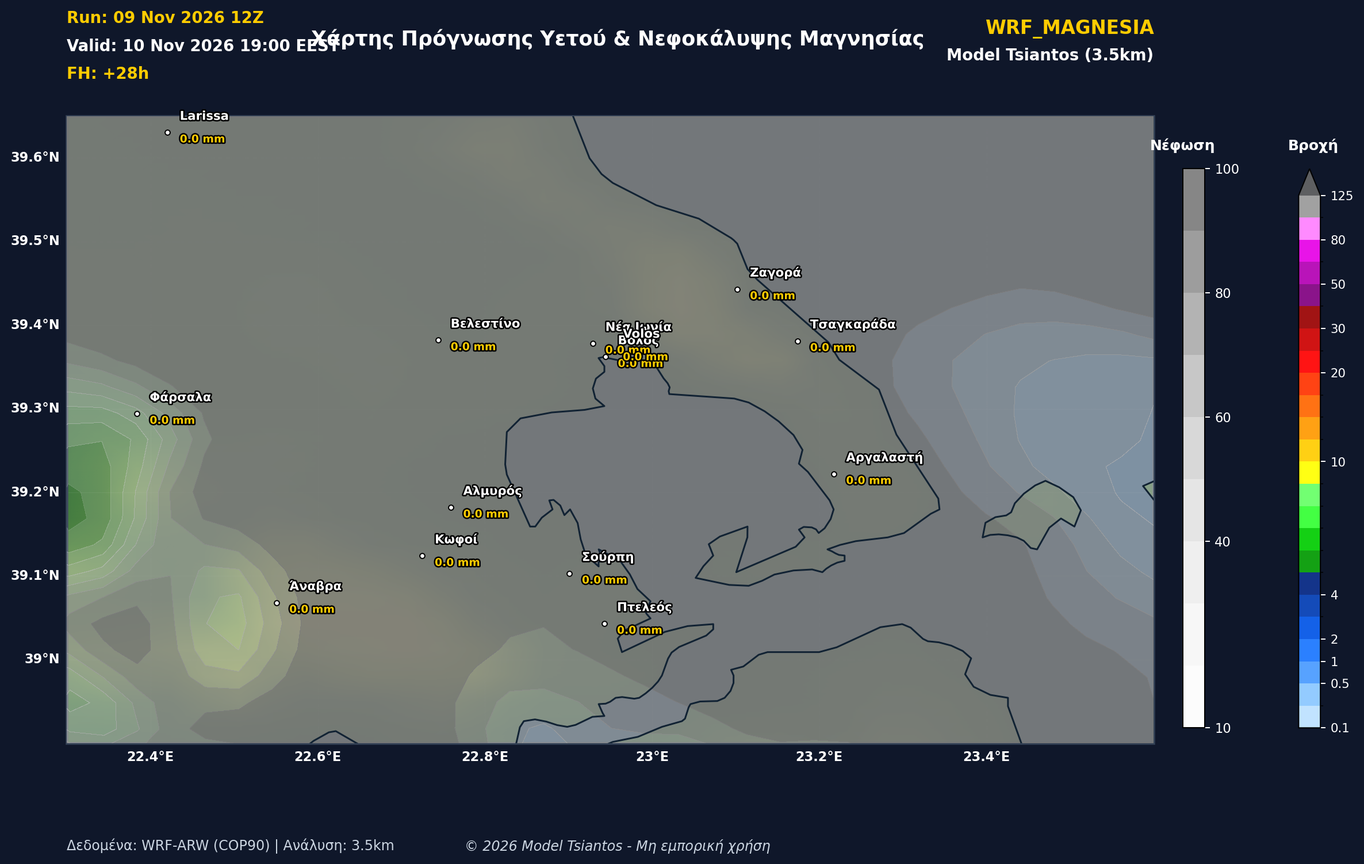
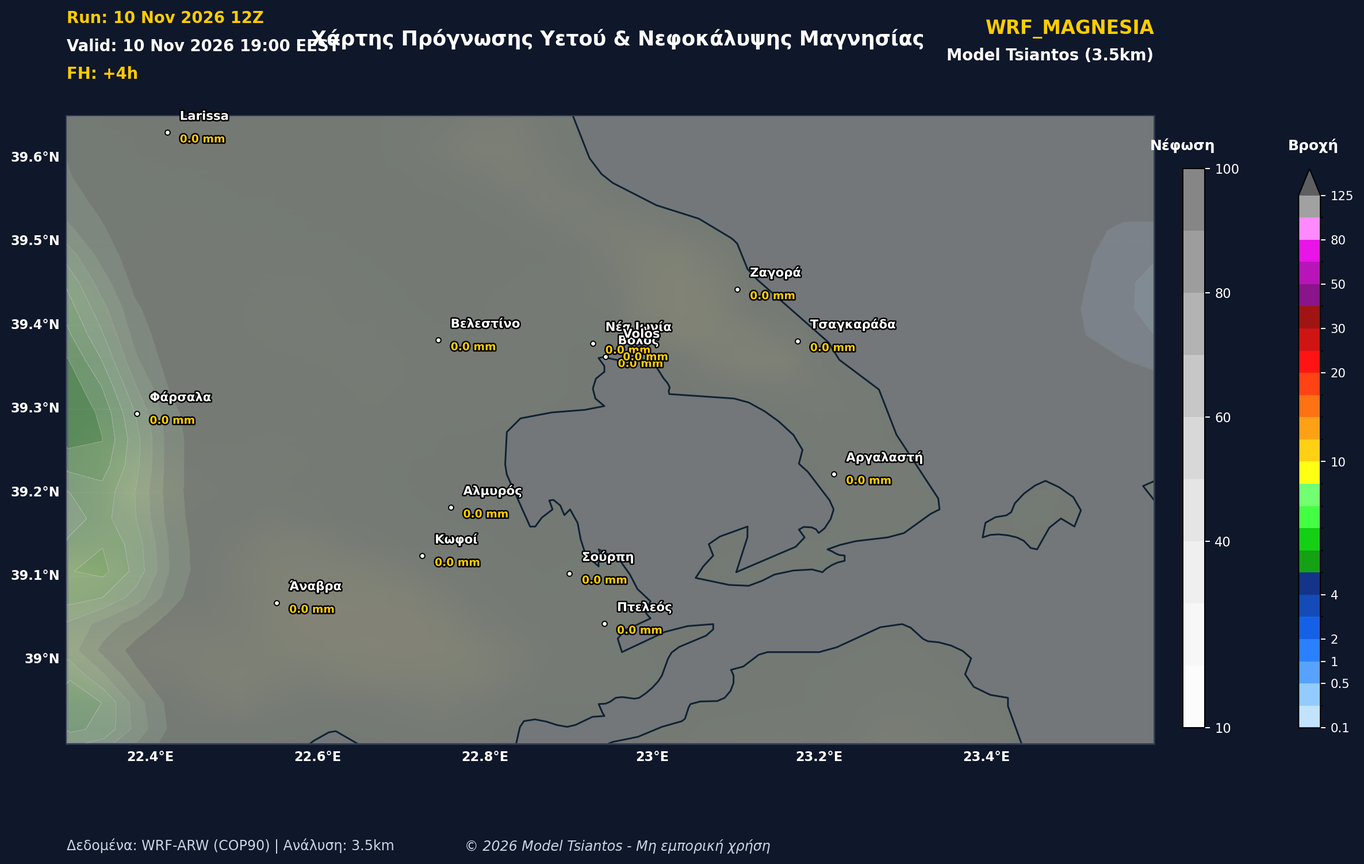
Update all WRF forecast maps

diff --git a/index.html b/index.html
@@ -485,7 +485,7 @@ const tabs=Array.from(document.querySelectorAll(".tab"));
 const title=document.getElementById("mapTitle"),validTime=document.getElementById("validTime"),slider=document.getElementById("hourSlider"),prev=document.getElementById("prevBtn"),next=document.getElementById("nextBtn"),placeholder=document.getElementById("mapPlaceholder"),image=document.getElementById("mapImage"),caption=document.getElementById("mapCaption"),statusText=document.getElementById("statusText");
 // Στο επόμενο βήμα θα βάλουμε εδώ τις δημόσιες διευθύνσεις των πραγματικών εικόνων WRF.
 // Παράδειγμα: rain:[{hour:0,url:"maps/rain_fh00.png",label:"..."}]
-const maps={"temp":[{"hour":17,"url":"maps/temp/Temp2m_LandRelief_FH17h.png","label":"+17 ώρες","valid":"Πρόγνωση +17 h","caption":"WRF MAGNESIA — +17 ώρες"},{"hour":18,"url":"maps/temp/Temp2m_LandRelief_FH18h.png","label":"+18 ώρες","valid":"Πρόγνωση +18 h","caption":"WRF MAGNESIA — +18 ώρες"},{"hour":19,"url":"maps/temp/Temp2m_LandRelief_FH19h.png","label":"+19 ώρες","valid":"Πρόγνωση +19 h","caption":"WRF MAGNESIA — +19 ώρες"},{"hour":20,"url":"maps/temp/Temp2m_LandRelief_FH20h.png","label":"+20 ώρες","valid":"Πρόγνωση +20 h","caption":"WRF MAGNESIA — +20 ώρες"},{"hour":21,"url":"maps/temp/Temp2m_LandRelief_FH21h.png","label":"+21 ώρες","valid":"Πρόγνωση +21 h","caption":"WRF MAGNESIA — +21 ώρες"},{"hour":22,"url":"maps/temp/Temp2m_LandRelief_FH22h.png","label":"+22 ώρες","valid":"Πρόγνωση +22 h","caption":"WRF MAGNESIA — +22 ώρες"},{"hour":23,"url":"maps/temp/Temp2m_LandRelief_FH23h.png","label":"+23 ώρες","valid":"Πρόγνωση +23 h","caption":"WRF MAGNESIA — +23 ώρες"},{"hour":24,"url":"maps/temp/Temp2m_LandRelief_FH24h.png","label":"+24 ώρες","valid":"Πρόγνωση +24 h","caption":"WRF MAGNESIA — +24 ώρες"},{"hour":25,"url":"maps/temp/Temp2m_LandRelief_FH25h.png","label":"+25 ώρες","valid":"Πρόγνωση +25 h","caption":"WRF MAGNESIA — +25 ώρες"},{"hour":26,"url":"maps/temp/Temp2m_LandRelief_FH26h.png","label":"+26 ώρες","valid":"Πρόγνωση +26 h","caption":"WRF MAGNESIA — +26 ώρες"},{"hour":27,"url":"maps/temp/Temp2m_LandRelief_FH27h.png","label":"+27 ώρες","valid":"Πρόγνωση +27 h","caption":"WRF MAGNESIA — +27 ώρες"},{"hour":28,"url":"maps/temp/Temp2m_LandRelief_FH28h.png","label":"+28 ώρες","valid":"Πρόγνωση +28 h","caption":"WRF MAGNESIA — +28 ώρες"},{"hour":29,"url":"maps/temp/Temp2m_LandRelief_FH29h.png","label":"+29 ώρες","valid":"Πρόγνωση +29 h","caption":"WRF MAGNESIA — +29 ώρες"},{"hour":30,"url":"maps/temp/Temp2m_LandRelief_FH30h.png","label":"+30 ώρες","valid":"Πρόγνωση +30 h","caption":"WRF MAGNESIA — +30 ώρες"},{"hour":31,"url":"maps/temp/Temp2m_LandRelief_FH31h.png","label":"+31 ώρες","valid":"Πρόγνωση +31 h","caption":"WRF MAGNESIA — +31 ώρες"},{"hour":32,"url":"maps/temp/Temp2m_LandRelief_FH32h.png","label":"+32 ώρες","valid":"Πρόγνωση +32 h","caption":"WRF MAGNESIA — +32 ώρες"},{"hour":33,"url":"maps/temp/Temp2m_LandRelief_FH33h.png","label":"+33 ώρες","valid":"Πρόγνωση +33 h","caption":"WRF MAGNESIA — +33 ώρες"},{"hour":34,"url":"maps/temp/Temp2m_LandRelief_FH34h.png","label":"+34 ώρες","valid":"Πρόγνωση +34 h","caption":"WRF MAGNESIA — +34 ώρες"},{"hour":35,"url":"maps/temp/Temp2m_LandRelief_FH35h.png","label":"+35 ώρες","valid":"Πρόγνωση +35 h","caption":"WRF MAGNESIA — +35 ώρες"},{"hour":36,"url":"maps/temp/Temp2m_LandRelief_FH36h.png","label":"+36 ώρες","valid":"Πρόγνωση +36 h","caption":"WRF MAGNESIA — +36 ώρες"},{"hour":37,"url":"maps/temp/Temp2m_LandRelief_FH37h.png","label":"+37 ώρες","valid":"Πρόγνωση +37 h","caption":"WRF MAGNESIA — +37 ώρες"},{"hour":38,"url":"maps/temp/Temp2m_LandRelief_FH38h.png","label":"+38 ώρες","valid":"Πρόγνωση +38 h","caption":"WRF MAGNESIA — +38 ώρες"},{"hour":39,"url":"maps/temp/Temp2m_LandRelief_FH39h.png","label":"+39 ώρες","valid":"Πρόγνωση +39 h","caption":"WRF MAGNESIA — +39 ώρες"},{"hour":40,"url":"maps/temp/Temp2m_LandRelief_FH40h.png","label":"+40 ώρες","valid":"Πρόγνωση +40 h","caption":"WRF MAGNESIA — +40 ώρες"},{"hour":41,"url":"maps/temp/Temp2m_LandRelief_FH41h.png","label":"+41 ώρες","valid":"Πρόγνωση +41 h","caption":"WRF MAGNESIA — +41 ώρες"},{"hour":42,"url":"maps/temp/Temp2m_LandRelief_FH42h.png","label":"+42 ώρες","valid":"Πρόγνωση +42 h","caption":"WRF MAGNESIA — +42 ώρες"},{"hour":43,"url":"maps/temp/Temp2m_LandRelief_FH43h.png","label":"+43 ώρες","valid":"Πρόγνωση +43 h","caption":"WRF MAGNESIA — +43 ώρες"}],"wind":[{"hour":18,"url":"maps/wind/WindGust_Meteologix_FH18h.png","label":"+18 ώρες","valid":"Πρόγνωση +18 h","caption":"WRF MAGNESIA — +18 ώρες"},{"hour":19,"url":"maps/wind/WindGust_Meteologix_FH19h.png","label":"+19 ώρες","valid":"Πρόγνωση +19 h","caption":"WRF MAGNESIA — +19 ώρες"},{"hour":20,"url":"maps/wind/WindGust_Meteologix_FH20h.png","label":"+20 ώρες","valid":"Πρόγνωση +20 h","caption":"WRF MAGNESIA — +20 ώρες"},{"hour":21,"url":"maps/wind/WindGust_Meteologix_FH21h.png","label":"+21 ώρες","valid":"Πρόγνωση +21 h","caption":"WRF MAGNESIA — +21 ώρες"},{"hour":22,"url":"maps/wind/WindGust_Meteologix_FH22h.png","label":"+22 ώρες","valid":"Πρόγνωση +22 h","caption":"WRF MAGNESIA — +22 ώρες"},{"hour":23,"url":"maps/wind/WindGust_Meteologix_FH23h.png","label":"+23 ώρες","valid":"Πρόγνωση +23 h","caption":"WRF MAGNESIA — +23 ώρες"},{"hour":24,"url":"maps/wind/WindGust_Meteologix_FH24h.png","label":"+24 ώρες","valid":"Πρόγνωση +24 h","caption":"WRF MAGNESIA — +24 ώρες"},{"hour":25,"url":"maps/wind/WindGust_Meteologix_FH25h.png","label":"+25 ώρες","valid":"Πρόγνωση +25 h","caption":"WRF MAGNESIA — +25 ώρες"},{"hour":26,"url":"maps/wind/WindGust_Meteologix_FH26h.png","label":"+26 ώρες","valid":"Πρόγνωση +26 h","caption":"WRF MAGNESIA — +26 ώρες"},{"hour":27,"url":"maps/wind/WindGust_Meteologix_FH27h.png","label":"+27 ώρες","valid":"Πρόγνωση +27 h","caption":"WRF MAGNESIA — +27 ώρες"},{"hour":28,"url":"maps/wind/WindGust_Meteologix_FH28h.png","label":"+28 ώρες","valid":"Πρόγνωση +28 h","caption":"WRF MAGNESIA — +28 ώρες"},{"hour":29,"url":"maps/wind/WindGust_Meteologix_FH29h.png","label":"+29 ώρες","valid":"Πρόγνωση +29 h","caption":"WRF MAGNESIA — +29 ώρες"},{"hour":30,"url":"maps/wind/WindGust_Meteologix_FH30h.png","label":"+30 ώρες","valid":"Πρόγνωση +30 h","caption":"WRF MAGNESIA — +30 ώρες"},{"hour":31,"url":"maps/wind/WindGust_Meteologix_FH31h.png","label":"+31 ώρες","valid":"Πρόγνωση +31 h","caption":"WRF MAGNESIA — +31 ώρες"},{"hour":32,"url":"maps/wind/WindGust_Meteologix_FH32h.png","label":"+32 ώρες","valid":"Πρόγνωση +32 h","caption":"WRF MAGNESIA — +32 ώρες"},{"hour":33,"url":"maps/wind/WindGust_Meteologix_FH33h.png","label":"+33 ώρες","valid":"Πρόγνωση +33 h","caption":"WRF MAGNESIA — +33 ώρες"},{"hour":34,"url":"maps/wind/WindGust_Meteologix_FH34h.png","label":"+34 ώρες","valid":"Πρόγνωση +34 h","caption":"WRF MAGNESIA — +34 ώρες"},{"hour":35,"url":"maps/wind/WindGust_Meteologix_FH35h.png","label":"+35 ώρες","valid":"Πρόγνωση +35 h","caption":"WRF MAGNESIA — +35 ώρες"},{"hour":36,"url":"maps/wind/WindGust_Meteologix_FH36h.png","label":"+36 ώρες","valid":"Πρόγνωση +36 h","caption":"WRF MAGNESIA — +36 ώρες"},{"hour":37,"url":"maps/wind/WindGust_Meteologix_FH37h.png","label":"+37 ώρες","valid":"Πρόγνωση +37 h","caption":"WRF MAGNESIA — +37 ώρες"},{"hour":38,"url":"maps/wind/WindGust_Meteologix_FH38h.png","label":"+38 ώρες","valid":"Πρόγνωση +38 h","caption":"WRF MAGNESIA — +38 ώρες"},{"hour":39,"url":"maps/wind/WindGust_Meteologix_FH39h.png","label":"+39 ώρες","valid":"Πρόγνωση +39 h","caption":"WRF MAGNESIA — +39 ώρες"},{"hour":40,"url":"maps/wind/WindGust_Meteologix_FH40h.png","label":"+40 ώρες","valid":"Πρόγνωση +40 h","caption":"WRF MAGNESIA — +40 ώρες"},{"hour":41,"url":"maps/wind/WindGust_Meteologix_FH41h.png","label":"+41 ώρες","valid":"Πρόγνωση +41 h","caption":"WRF MAGNESIA — +41 ώρες"},{"hour":42,"url":"maps/wind/WindGust_Meteologix_FH42h.png","label":"+42 ώρες","valid":"Πρόγνωση +42 h","caption":"WRF MAGNESIA — +42 ώρες"},{"hour":43,"url":"maps/wind/WindGust_Meteologix_FH43h.png","label":"+43 ώρες","valid":"Πρόγνωση +43 h","caption":"WRF MAGNESIA — +43 ώρες"}],"cloud":[{"hour":0,"url":"maps/cloud/Magnesia_Meteologix_2026-11-10_05-00-00.png","label":"2026-11-10 05:00","valid":"2026-11-10 05:00","caption":"WRF MAGNESIA — 2026-11-10 05:00"},{"hour":1,"url":"maps/cloud/Magnesia_Meteologix_2026-11-10_06-00-00.png","label":"2026-11-10 06:00","valid":"2026-11-10 06:00","caption":"WRF MAGNESIA — 2026-11-10 06:00"},{"hour":2,"url":"maps/cloud/Magnesia_Meteologix_2026-11-10_07-00-00.png","label":"2026-11-10 07:00","valid":"2026-11-10 07:00","caption":"WRF MAGNESIA — 2026-11-10 07:00"},{"hour":3,"url":"maps/cloud/Magnesia_Meteologix_2026-11-10_08-00-00.png","label":"2026-11-10 08:00","valid":"2026-11-10 08:00","caption":"WRF MAGNESIA — 2026-11-10 08:00"},{"hour":4,"url":"maps/cloud/Magnesia_Meteologix_2026-11-10_09-00-00.png","label":"2026-11-10 09:00","valid":"2026-11-10 09:00","caption":"WRF MAGNESIA — 2026-11-10 09:00"},{"hour":5,"url":"maps/cloud/Magnesia_Meteologix_2026-11-10_10-00-00.png","label":"2026-11-10 10:00","valid":"2026-11-10 10:00","caption":"WRF MAGNESIA — 2026-11-10 10:00"},{"hour":6,"url":"maps/cloud/Magnesia_Meteologix_2026-11-10_11-00-00.png","label":"2026-11-10 11:00","valid":"2026-11-10 11:00","caption":"WRF MAGNESIA — 2026-11-10 11:00"},{"hour":7,"url":"maps/cloud/Magnesia_Meteologix_2026-11-10_12-00-00.png","label":"2026-11-10 12:00","valid":"2026-11-10 12:00","caption":"WRF MAGNESIA — 2026-11-10 12:00"},{"hour":8,"url":"maps/cloud/Magnesia_Meteologix_2026-11-10_13-00-00.png","label":"2026-11-10 13:00","valid":"2026-11-10 13:00","caption":"WRF MAGNESIA — 2026-11-10 13:00"},{"hour":9,"url":"maps/cloud/Magnesia_Meteologix_2026-11-10_14-00-00.png","label":"2026-11-10 14:00","valid":"2026-11-10 14:00","caption":"WRF MAGNESIA — 2026-11-10 14:00"},{"hour":10,"url":"maps/cloud/Magnesia_Meteologix_2026-11-10_15-00-00.png","label":"2026-11-10 15:00","valid":"2026-11-10 15:00","caption":"WRF MAGNESIA — 2026-11-10 15:00"},{"hour":11,"url":"maps/cloud/Magnesia_Meteologix_2026-11-10_16-00-00.png","label":"2026-11-10 16:00","valid":"2026-11-10 16:00","caption":"WRF MAGNESIA — 2026-11-10 16:00"},{"hour":12,"url":"maps/cloud/Magnesia_Meteologix_2026-11-10_17-00-00.png","label":"2026-11-10 17:00","valid":"2026-11-10 17:00","caption":"WRF MAGNESIA — 2026-11-10 17:00"},{"hour":13,"url":"maps/cloud/Magnesia_Meteologix_2026-11-10_18-00-00.png","label":"2026-11-10 18:00","valid":"2026-11-10 18:00","caption":"WRF MAGNESIA — 2026-11-10 18:00"},{"hour":14,"url":"maps/cloud/Magnesia_Meteologix_2026-11-10_19-00-00.png","label":"2026-11-10 19:00","valid":"2026-11-10 19:00","caption":"WRF MAGNESIA — 2026-11-10 19:00"},{"hour":15,"url":"maps/cloud/Magnesia_Meteologix_2026-11-10_20-00-00.png","label":"2026-11-10 20:00","valid":"2026-11-10 20:00","caption":"WRF MAGNESIA — 2026-11-10 20:00"},{"hour":16,"url":"maps/cloud/Magnesia_Meteologix_2026-11-10_21-00-00.png","label":"2026-11-10 21:00","valid":"2026-11-10 21:00","caption":"WRF MAGNESIA — 2026-11-10 21:00"},{"hour":17,"url":"maps/cloud/Magnesia_Meteologix_2026-11-10_22-00-00.png","label":"2026-11-10 22:00","valid":"2026-11-10 22:00","caption":"WRF MAGNESIA — 2026-11-10 22:00"},{"hour":18,"url":"maps/cloud/Magnesia_Meteologix_2026-11-10_23-00-00.png","label":"2026-11-10 23:00","valid":"2026-11-10 23:00","caption":"WRF MAGNESIA — 2026-11-10 23:00"},{"hour":19,"url":"maps/cloud/Magnesia_Meteologix_2026-11-11_00-00-00.png","label":"2026-11-11 00:00","valid":"2026-11-11 00:00","caption":"WRF MAGNESIA — 2026-11-11 00:00"},{"hour":20,"url":"maps/cloud/Magnesia_Meteologix_2026-11-11_01-00-00.png","label":"2026-11-11 01:00","valid":"2026-11-11 01:00","caption":"WRF MAGNESIA — 2026-11-11 01:00"},{"hour":21,"url":"maps/cloud/Magnesia_Meteologix_2026-11-11_02-00-00.png","label":"2026-11-11 02:00","valid":"2026-11-11 02:00","caption":"WRF MAGNESIA — 2026-11-11 02:00"},{"hour":22,"url":"maps/cloud/Magnesia_Meteologix_2026-11-11_03-00-00.png","label":"2026-11-11 03:00","valid":"2026-11-11 03:00","caption":"WRF MAGNESIA — 2026-11-11 03:00"},{"hour":23,"url":"maps/cloud/Magnesia_Meteologix_2026-11-11_04-00-00.png","label":"2026-11-11 04:00","valid":"2026-11-11 04:00","caption":"WRF MAGNESIA — 2026-11-11 04:00"},{"hour":24,"url":"maps/cloud/Magnesia_Meteologix_2026-11-11_05-00-00.png","label":"2026-11-11 05:00","valid":"2026-11-11 05:00","caption":"WRF MAGNESIA — 2026-11-11 05:00"},{"hour":25,"url":"maps/cloud/Magnesia_Meteologix_2026-11-11_06-00-00.png","label":"2026-11-11 06:00","valid":"2026-11-11 06:00","caption":"WRF MAGNESIA — 2026-11-11 06:00"},{"hour":26,"url":"maps/cloud/Magnesia_Meteologix_2026-11-11_07-00-00.png","label":"2026-11-11 07:00","valid":"2026-11-11 07:00","caption":"WRF MAGNESIA — 2026-11-11 07:00"}],"rain":[],"snow":[{"hour":0,"url":"maps/snow/Magnesia_SNOWH_202611100500.png","label":"Magnesia_SNOWH_202611100500","valid":"Magnesia_SNOWH_202611100500","caption":"WRF MAGNESIA — Magnesia_SNOWH_202611100500"},{"hour":1,"url":"maps/snow/Magnesia_SNOWH_202611100600.png","label":"Magnesia_SNOWH_202611100600","valid":"Magnesia_SNOWH_202611100600","caption":"WRF MAGNESIA — Magnesia_SNOWH_202611100600"},{"hour":2,"url":"maps/snow/Magnesia_SNOWH_202611100700.png","label":"Magnesia_SNOWH_202611100700","valid":"Magnesia_SNOWH_202611100700","caption":"WRF MAGNESIA — Magnesia_SNOWH_202611100700"},{"hour":3,"url":"maps/snow/Magnesia_SNOWH_202611100800.png","label":"Magnesia_SNOWH_202611100800","valid":"Magnesia_SNOWH_202611100800","caption":"WRF MAGNESIA — Magnesia_SNOWH_202611100800"},{"hour":4,"url":"maps/snow/Magnesia_SNOWH_202611100900.png","label":"Magnesia_SNOWH_202611100900","valid":"Magnesia_SNOWH_202611100900","caption":"WRF MAGNESIA — Magnesia_SNOWH_202611100900"},{"hour":5,"url":"maps/snow/Magnesia_SNOWH_202611101000.png","label":"Magnesia_SNOWH_202611101000","valid":"Magnesia_SNOWH_202611101000","caption":"WRF MAGNESIA — Magnesia_SNOWH_202611101000"},{"hour":6,"url":"maps/snow/Magnesia_SNOWH_202611101100.png","label":"Magnesia_SNOWH_202611101100","valid":"Magnesia_SNOWH_202611101100","caption":"WRF MAGNESIA — Magnesia_SNOWH_202611101100"},{"hour":7,"url":"maps/snow/Magnesia_SNOWH_202611101200.png","label":"Magnesia_SNOWH_202611101200","valid":"Magnesia_SNOWH_202611101200","caption":"WRF MAGNESIA — Magnesia_SNOWH_202611101200"},{"hour":8,"url":"maps/snow/Magnesia_SNOWH_202611101300.png","label":"Magnesia_SNOWH_202611101300","valid":"Magnesia_SNOWH_202611101300","caption":"WRF MAGNESIA — Magnesia_SNOWH_202611101300"},{"hour":9,"url":"maps/snow/Magnesia_SNOWH_202611101400.png","label":"Magnesia_SNOWH_202611101400","valid":"Magnesia_SNOWH_202611101400","caption":"WRF MAGNESIA — Magnesia_SNOWH_202611101400"},{"hour":10,"url":"maps/snow/Magnesia_SNOWH_202611101500.png","label":"Magnesia_SNOWH_202611101500","valid":"Magnesia_SNOWH_202611101500","caption":"WRF MAGNESIA — Magnesia_SNOWH_202611101500"},{"hour":11,"url":"maps/snow/Magnesia_SNOWH_202611101600.png","label":"Magnesia_SNOWH_202611101600","valid":"Magnesia_SNOWH_202611101600","caption":"WRF MAGNESIA — Magnesia_SNOWH_202611101600"},{"hour":12,"url":"maps/snow/Magnesia_SNOWH_202611101700.png","label":"Magnesia_SNOWH_202611101700","valid":"Magnesia_SNOWH_202611101700","caption":"WRF MAGNESIA — Magnesia_SNOWH_202611101700"},{"hour":13,"url":"maps/snow/Magnesia_SNOWH_202611101800.png","label":"Magnesia_SNOWH_202611101800","valid":"Magnesia_SNOWH_202611101800","caption":"WRF MAGNESIA — Magnesia_SNOWH_202611101800"},{"hour":14,"url":"maps/snow/Magnesia_SNOWH_202611101900.png","label":"Magnesia_SNOWH_202611101900","valid":"Magnesia_SNOWH_202611101900","caption":"WRF MAGNESIA — Magnesia_SNOWH_202611101900"},{"hour":15,"url":"maps/snow/Magnesia_SNOWH_202611102000.png","label":"Magnesia_SNOWH_202611102000","valid":"Magnesia_SNOWH_202611102000","caption":"WRF MAGNESIA — Magnesia_SNOWH_202611102000"},{"hour":16,"url":"maps/snow/Magnesia_SNOWH_202611102100.png","label":"Magnesia_SNOWH_202611102100","valid":"Magnesia_SNOWH_202611102100","caption":"WRF MAGNESIA — Magnesia_SNOWH_202611102100"},{"hour":17,"url":"maps/snow/Magnesia_SNOWH_202611102200.png","label":"Magnesia_SNOWH_202611102200","valid":"Magnesia_SNOWH_202611102200","caption":"WRF MAGNESIA — Magnesia_SNOWH_202611102200"},{"hour":18,"url":"maps/snow/Magnesia_SNOWH_202611102300.png","label":"Magnesia_SNOWH_202611102300","valid":"Magnesia_SNOWH_202611102300","caption":"WRF MAGNESIA — Magnesia_SNOWH_202611102300"},{"hour":19,"url":"maps/snow/Magnesia_SNOWH_202611110000.png","label":"Magnesia_SNOWH_202611110000","valid":"Magnesia_SNOWH_202611110000","caption":"WRF MAGNESIA — Magnesia_SNOWH_202611110000"},{"hour":20,"url":"maps/snow/Magnesia_SNOWH_202611110100.png","label":"Magnesia_SNOWH_202611110100","valid":"Magnesia_SNOWH_202611110100","caption":"WRF MAGNESIA — Magnesia_SNOWH_202611110100"},{"hour":21,"url":"maps/snow/Magnesia_SNOWH_202611110200.png","label":"Magnesia_SNOWH_202611110200","valid":"Magnesia_SNOWH_202611110200","caption":"WRF MAGNESIA — Magnesia_SNOWH_202611110200"},{"hour":22,"url":"maps/snow/Magnesia_SNOWH_202611110300.png","label":"Magnesia_SNOWH_202611110300","valid":"Magnesia_SNOWH_202611110300","caption":"WRF MAGNESIA — Magnesia_SNOWH_202611110300"},{"hour":23,"url":"maps/snow/Magnesia_SNOWH_202611110400.png","label":"Magnesia_SNOWH_202611110400","valid":"Magnesia_SNOWH_202611110400","caption":"WRF MAGNESIA — Magnesia_SNOWH_202611110400"},{"hour":24,"url":"maps/snow/Magnesia_SNOWH_202611110500.png","label":"Magnesia_SNOWH_202611110500","valid":"Magnesia_SNOWH_202611110500","caption":"WRF MAGNESIA — Magnesia_SNOWH_202611110500"},{"hour":25,"url":"maps/snow/Magnesia_SNOWH_202611110600.png","label":"Magnesia_SNOWH_202611110600","valid":"Magnesia_SNOWH_202611110600","caption":"WRF MAGNESIA — Magnesia_SNOWH_202611110600"},{"hour":26,"url":"maps/snow/Magnesia_SNOWH_202611110700.png","label":"Magnesia_SNOWH_202611110700","valid":"Magnesia_SNOWH_202611110700","caption":"WRF MAGNESIA — Magnesia_SNOWH_202611110700"}],"meteograms":[{"hour":0,"url":"maps/meteograms/Meteogram_Αλμυρός.png","label":"Αλμυρός","valid":"Αλμυρός","caption":"WRF MAGNESIA — Αλμυρός"},{"hour":1,"url":"maps/meteograms/Meteogram_Ανάβρα.png","label":"Ανάβρα","valid":"Ανάβρα","caption":"WRF MAGNESIA — Ανάβρα"},{"hour":2,"url":"maps/meteograms/Meteogram_Αργαλαστή.png","label":"Αργαλαστή","valid":"Αργαλαστή","caption":"WRF MAGNESIA — Αργαλαστή"},{"hour":3,"url":"maps/meteograms/Meteogram_Βόλος.png","label":"Βόλος","valid":"Βόλος","caption":"WRF MAGNESIA — Βόλος"},{"hour":4,"url":"maps/meteograms/Meteogram_Ζαγορά.png","label":"Ζαγορά","valid":"Ζαγορά","caption":"WRF MAGNESIA — Ζαγορά"},{"hour":5,"url":"maps/meteograms/Meteogram_Κωφοί_Μαγνησίας.png","label":"Κωφοί Μαγνησίας","valid":"Κωφοί Μαγνησίας","caption":"WRF MAGNESIA — Κωφοί Μαγνησίας"},{"hour":6,"url":"maps/meteograms/Meteogram_Σούρπη.png","label":"Σούρπη","valid":"Σούρπη","caption":"WRF MAGNESIA — Σούρπη"},{"hour":7,"url":"maps/meteograms/Meteogram_Όθρυς.png","label":"Όθρυς","valid":"Όθρυς","caption":"WRF MAGNESIA — Όθρυς"}],"storms":[{"hour":0,"url":"maps/storms/Thunderstorm_Potential_20261110_0600.png","label":"Thunderstorm Potential 20261110 0600","valid":"Thunderstorm Potential 20261110 0600","caption":"WRF MAGNESIA — Thunderstorm Potential 20261110 0600"},{"hour":1,"url":"maps/storms/Thunderstorm_Potential_20261110_0700.png","label":"Thunderstorm Potential 20261110 0700","valid":"Thunderstorm Potential 20261110 0700","caption":"WRF MAGNESIA — Thunderstorm Potential 20261110 0700"},{"hour":2,"url":"maps/storms/Thunderstorm_Potential_20261110_0800.png","label":"Thunderstorm Potential 20261110 0800","valid":"Thunderstorm Potential 20261110 0800","caption":"WRF MAGNESIA — Thunderstorm Potential 20261110 0800"},{"hour":3,"url":"maps/storms/Thunderstorm_Potential_20261110_0900.png","label":"Thunderstorm Potential 20261110 0900","valid":"Thunderstorm Potential 20261110 0900","caption":"WRF MAGNESIA — Thunderstorm Potential 20261110 0900"},{"hour":4,"url":"maps/storms/Thunderstorm_Potential_20261110_1000.png","label":"Thunderstorm Potential 20261110 1000","valid":"Thunderstorm Potential 20261110 1000","caption":"WRF MAGNESIA — Thunderstorm Potential 20261110 1000"},{"hour":5,"url":"maps/storms/Thunderstorm_Potential_20261110_1100.png","label":"Thunderstorm Potential 20261110 1100","valid":"Thunderstorm Potential 20261110 1100","caption":"WRF MAGNESIA — Thunderstorm Potential 20261110 1100"},{"hour":6,"url":"maps/storms/Thunderstorm_Potential_20261110_1200.png","label":"Thunderstorm Potential 20261110 1200","valid":"Thunderstorm Potential 20261110 1200","caption":"WRF MAGNESIA — Thunderstorm Potential 20261110 1200"},{"hour":7,"url":"maps/storms/Thunderstorm_Potential_20261110_1300.png","label":"Thunderstorm Potential 20261110 1300","valid":"Thunderstorm Potential 20261110 1300","caption":"WRF MAGNESIA — Thunderstorm Potential 20261110 1300"},{"hour":8,"url":"maps/storms/Thunderstorm_Potential_20261110_1400.png","label":"Thunderstorm Potential 20261110 1400","valid":"Thunderstorm Potential 20261110 1400","caption":"WRF MAGNESIA — Thunderstorm Potential 20261110 1400"},{"hour":9,"url":"maps/storms/Thunderstorm_Potential_20261110_1500.png","label":"Thunderstorm Potential 20261110 1500","valid":"Thunderstorm Potential 20261110 1500","caption":"WRF MAGNESIA — Thunderstorm Potential 20261110 1500"},{"hour":10,"url":"maps/storms/Thunderstorm_Potential_20261110_1600.png","label":"Thunderstorm Potential 20261110 1600","valid":"Thunderstorm Potential 20261110 1600","caption":"WRF MAGNESIA — Thunderstorm Potential 20261110 1600"},{"hour":11,"url":"maps/storms/Thunderstorm_Potential_20261110_1700.png","label":"Thunderstorm Potential 20261110 1700","valid":"Thunderstorm Potential 20261110 1700","caption":"WRF MAGNESIA — Thunderstorm Potential 20261110 1700"},{"hour":12,"url":"maps/storms/Thunderstorm_Potential_20261110_1800.png","label":"Thunderstorm Potential 20261110 1800","valid":"Thunderstorm Potential 20261110 1800","caption":"WRF MAGNESIA — Thunderstorm Potential 20261110 1800"},{"hour":13,"url":"maps/storms/Thunderstorm_Potential_20261110_1900.png","label":"Thunderstorm Potential 20261110 1900","valid":"Thunderstorm Potential 20261110 1900","caption":"WRF MAGNESIA — Thunderstorm Potential 20261110 1900"},{"hour":14,"url":"maps/storms/Thunderstorm_Potential_20261110_2000.png","label":"Thunderstorm Potential 20261110 2000","valid":"Thunderstorm Potential 20261110 2000","caption":"WRF MAGNESIA — Thunderstorm Potential 20261110 2000"},{"hour":15,"url":"maps/storms/Thunderstorm_Potential_20261110_2100.png","label":"Thunderstorm Potential 20261110 2100","valid":"Thunderstorm Potential 20261110 2100","caption":"WRF MAGNESIA — Thunderstorm Potential 20261110 2100"},{"hour":16,"url":"maps/storms/Thunderstorm_Potential_20261110_2200.png","label":"Thunderstorm Potential 20261110 2200","valid":"Thunderstorm Potential 20261110 2200","caption":"WRF MAGNESIA — Thunderstorm Potential 20261110 2200"},{"hour":17,"url":"maps/storms/Thunderstorm_Potential_20261110_2300.png","label":"Thunderstorm Potential 20261110 2300","valid":"Thunderstorm Potential 20261110 2300","caption":"WRF MAGNESIA — Thunderstorm Potential 20261110 2300"},{"hour":18,"url":"maps/storms/Thunderstorm_Potential_20261111_0000.png","label":"Thunderstorm Potential 20261111 0000","valid":"Thunderstorm Potential 20261111 0000","caption":"WRF MAGNESIA — Thunderstorm Potential 20261111 0000"},{"hour":19,"url":"maps/storms/Thunderstorm_Potential_20261111_0100.png","label":"Thunderstorm Potential 20261111 0100","valid":"Thunderstorm Potential 20261111 0100","caption":"WRF MAGNESIA — Thunderstorm Potential 20261111 0100"},{"hour":20,"url":"maps/storms/Thunderstorm_Potential_20261111_0200.png","label":"Thunderstorm Potential 20261111 0200","valid":"Thunderstorm Potential 20261111 0200","caption":"WRF MAGNESIA — Thunderstorm Potential 20261111 0200"},{"hour":21,"url":"maps/storms/Thunderstorm_Potential_20261111_0300.png","label":"Thunderstorm Potential 20261111 0300","valid":"Thunderstorm Potential 20261111 0300","caption":"WRF MAGNESIA — Thunderstorm Potential 20261111 0300"},{"hour":22,"url":"maps/storms/Thunderstorm_Potential_20261111_0400.png","label":"Thunderstorm Potential 20261111 0400","valid":"Thunderstorm Potential 20261111 0400","caption":"WRF MAGNESIA — Thunderstorm Potential 20261111 0400"},{"hour":23,"url":"maps/storms/Thunderstorm_Potential_20261111_0500.png","label":"Thunderstorm Potential 20261111 0500","valid":"Thunderstorm Potential 20261111 0500","caption":"WRF MAGNESIA — Thunderstorm Potential 20261111 0500"},{"hour":24,"url":"maps/storms/Thunderstorm_Potential_20261111_0600.png","label":"Thunderstorm Potential 20261111 0600","valid":"Thunderstorm Potential 20261111 0600","caption":"WRF MAGNESIA — Thunderstorm Potential 20261111 0600"},{"hour":25,"url":"maps/storms/Thunderstorm_Potential_20261111_0700.png","label":"Thunderstorm Potential 20261111 0700","valid":"Thunderstorm Potential 20261111 0700","caption":"WRF MAGNESIA — Thunderstorm Potential 20261111 0700"}],"profiles":[{"hour":0,"url":"maps/profiles/kofos_vertical_advanced_v4_4_gfs_direct.png","label":"Κωφοί — κατακόρυφο προφίλ","valid":"Κωφοί — κατακόρυφο προφίλ","caption":"WRF MAGNESIA — Κωφοί — κατακόρυφο προφίλ"}],"local-forecast":[{"hour":0,"url":"maps/local-forecast/forecast_almyros.png","label":"almyros","valid":"almyros","caption":"WRF MAGNESIA — almyros"},{"hour":1,"url":"maps/local-forecast/forecast_anchialos.png","label":"anchialos","valid":"anchialos","caption":"WRF MAGNESIA — anchialos"},{"hour":2,"url":"maps/local-forecast/forecast_argalasti.png","label":"argalasti","valid":"argalasti","caption":"WRF MAGNESIA — argalasti"},{"hour":3,"url":"maps/local-forecast/forecast_kofoi.png","label":"kofoi","valid":"kofoi","caption":"WRF MAGNESIA — kofoi"},{"hour":4,"url":"maps/local-forecast/forecast_othrys.png","label":"othrys","valid":"othrys","caption":"WRF MAGNESIA — othrys"},{"hour":5,"url":"maps/local-forecast/forecast_sourpi.png","label":"sourpi","valid":"sourpi","caption":"WRF MAGNESIA — sourpi"},{"hour":6,"url":"maps/local-forecast/forecast_velestino.png","label":"velestino","valid":"velestino","caption":"WRF MAGNESIA — velestino"},{"hour":7,"url":"maps/local-forecast/forecast_volos.png","label":"volos","valid":"volos","caption":"WRF MAGNESIA — volos"},{"hour":8,"url":"maps/local-forecast/forecast_zagora.png","label":"zagora","valid":"zagora","caption":"WRF MAGNESIA — zagora"}],"national-rain":[]};
+const maps={"temp":[{"hour":0,"url":"maps/temp/Temp2m_LandRelief_FH0h.png","label":"+0 ώρες","valid":"Πρόγνωση +0 h","caption":"WRF MAGNESIA — +0 ώρες"},{"hour":1,"url":"maps/temp/Temp2m_LandRelief_FH1h.png","label":"+1 ώρες","valid":"Πρόγνωση +1 h","caption":"WRF MAGNESIA — +1 ώρες"},{"hour":2,"url":"maps/temp/Temp2m_LandRelief_FH2h.png","label":"+2 ώρες","valid":"Πρόγνωση +2 h","caption":"WRF MAGNESIA — +2 ώρες"},{"hour":3,"url":"maps/temp/Temp2m_LandRelief_FH3h.png","label":"+3 ώρες","valid":"Πρόγνωση +3 h","caption":"WRF MAGNESIA — +3 ώρες"},{"hour":4,"url":"maps/temp/Temp2m_LandRelief_FH4h.png","label":"+4 ώρες","valid":"Πρόγνωση +4 h","caption":"WRF MAGNESIA — +4 ώρες"},{"hour":5,"url":"maps/temp/Temp2m_LandRelief_FH5h.png","label":"+5 ώρες","valid":"Πρόγνωση +5 h","caption":"WRF MAGNESIA — +5 ώρες"},{"hour":6,"url":"maps/temp/Temp2m_LandRelief_FH6h.png","label":"+6 ώρες","valid":"Πρόγνωση +6 h","caption":"WRF MAGNESIA — +6 ώρες"},{"hour":7,"url":"maps/temp/Temp2m_LandRelief_FH7h.png","label":"+7 ώρες","valid":"Πρόγνωση +7 h","caption":"WRF MAGNESIA — +7 ώρες"},{"hour":8,"url":"maps/temp/Temp2m_LandRelief_FH8h.png","label":"+8 ώρες","valid":"Πρόγνωση +8 h","caption":"WRF MAGNESIA — +8 ώρες"},{"hour":9,"url":"maps/temp/Temp2m_LandRelief_FH9h.png","label":"+9 ώρες","valid":"Πρόγνωση +9 h","caption":"WRF MAGNESIA — +9 ώρες"}],"wind":[],"cloud":[{"hour":0,"url":"maps/cloud/Magnesia_Meteologix_2026-11-10_12-00-00.png","label":"2026-11-10 12:00","valid":"2026-11-10 12:00","caption":"WRF MAGNESIA — 2026-11-10 12:00"},{"hour":1,"url":"maps/cloud/Magnesia_Meteologix_2026-11-10_13-00-00.png","label":"2026-11-10 13:00","valid":"2026-11-10 13:00","caption":"WRF MAGNESIA — 2026-11-10 13:00"},{"hour":2,"url":"maps/cloud/Magnesia_Meteologix_2026-11-10_14-00-00.png","label":"2026-11-10 14:00","valid":"2026-11-10 14:00","caption":"WRF MAGNESIA — 2026-11-10 14:00"},{"hour":3,"url":"maps/cloud/Magnesia_Meteologix_2026-11-10_15-00-00.png","label":"2026-11-10 15:00","valid":"2026-11-10 15:00","caption":"WRF MAGNESIA — 2026-11-10 15:00"},{"hour":4,"url":"maps/cloud/Magnesia_Meteologix_2026-11-10_16-00-00.png","label":"2026-11-10 16:00","valid":"2026-11-10 16:00","caption":"WRF MAGNESIA — 2026-11-10 16:00"},{"hour":5,"url":"maps/cloud/Magnesia_Meteologix_2026-11-10_17-00-00.png","label":"2026-11-10 17:00","valid":"2026-11-10 17:00","caption":"WRF MAGNESIA — 2026-11-10 17:00"},{"hour":6,"url":"maps/cloud/Magnesia_Meteologix_2026-11-10_18-00-00.png","label":"2026-11-10 18:00","valid":"2026-11-10 18:00","caption":"WRF MAGNESIA — 2026-11-10 18:00"},{"hour":7,"url":"maps/cloud/Magnesia_Meteologix_2026-11-10_19-00-00.png","label":"2026-11-10 19:00","valid":"2026-11-10 19:00","caption":"WRF MAGNESIA — 2026-11-10 19:00"},{"hour":8,"url":"maps/cloud/Magnesia_Meteologix_2026-11-10_20-00-00.png","label":"2026-11-10 20:00","valid":"2026-11-10 20:00","caption":"WRF MAGNESIA — 2026-11-10 20:00"}],"rain":[],"snow":[{"hour":0,"url":"maps/snow/Magnesia_SNOWH_202611100500.png","label":"Magnesia_SNOWH_202611100500","valid":"Magnesia_SNOWH_202611100500","caption":"WRF MAGNESIA — Magnesia_SNOWH_202611100500"},{"hour":1,"url":"maps/snow/Magnesia_SNOWH_202611100600.png","label":"Magnesia_SNOWH_202611100600","valid":"Magnesia_SNOWH_202611100600","caption":"WRF MAGNESIA — Magnesia_SNOWH_202611100600"},{"hour":2,"url":"maps/snow/Magnesia_SNOWH_202611100700.png","label":"Magnesia_SNOWH_202611100700","valid":"Magnesia_SNOWH_202611100700","caption":"WRF MAGNESIA — Magnesia_SNOWH_202611100700"},{"hour":3,"url":"maps/snow/Magnesia_SNOWH_202611100800.png","label":"Magnesia_SNOWH_202611100800","valid":"Magnesia_SNOWH_202611100800","caption":"WRF MAGNESIA — Magnesia_SNOWH_202611100800"},{"hour":4,"url":"maps/snow/Magnesia_SNOWH_202611100900.png","label":"Magnesia_SNOWH_202611100900","valid":"Magnesia_SNOWH_202611100900","caption":"WRF MAGNESIA — Magnesia_SNOWH_202611100900"},{"hour":5,"url":"maps/snow/Magnesia_SNOWH_202611101000.png","label":"Magnesia_SNOWH_202611101000","valid":"Magnesia_SNOWH_202611101000","caption":"WRF MAGNESIA — Magnesia_SNOWH_202611101000"},{"hour":6,"url":"maps/snow/Magnesia_SNOWH_202611101100.png","label":"Magnesia_SNOWH_202611101100","valid":"Magnesia_SNOWH_202611101100","caption":"WRF MAGNESIA — Magnesia_SNOWH_202611101100"},{"hour":7,"url":"maps/snow/Magnesia_SNOWH_202611101200.png","label":"Magnesia_SNOWH_202611101200","valid":"Magnesia_SNOWH_202611101200","caption":"WRF MAGNESIA — Magnesia_SNOWH_202611101200"},{"hour":8,"url":"maps/snow/Magnesia_SNOWH_202611101300.png","label":"Magnesia_SNOWH_202611101300","valid":"Magnesia_SNOWH_202611101300","caption":"WRF MAGNESIA — Magnesia_SNOWH_202611101300"},{"hour":9,"url":"maps/snow/Magnesia_SNOWH_202611101400.png","label":"Magnesia_SNOWH_202611101400","valid":"Magnesia_SNOWH_202611101400","caption":"WRF MAGNESIA — Magnesia_SNOWH_202611101400"},{"hour":10,"url":"maps/snow/Magnesia_SNOWH_202611101500.png","label":"Magnesia_SNOWH_202611101500","valid":"Magnesia_SNOWH_202611101500","caption":"WRF MAGNESIA — Magnesia_SNOWH_202611101500"},{"hour":11,"url":"maps/snow/Magnesia_SNOWH_202611101600.png","label":"Magnesia_SNOWH_202611101600","valid":"Magnesia_SNOWH_202611101600","caption":"WRF MAGNESIA — Magnesia_SNOWH_202611101600"},{"hour":12,"url":"maps/snow/Magnesia_SNOWH_202611101700.png","label":"Magnesia_SNOWH_202611101700","valid":"Magnesia_SNOWH_202611101700","caption":"WRF MAGNESIA — Magnesia_SNOWH_202611101700"},{"hour":13,"url":"maps/snow/Magnesia_SNOWH_202611101800.png","label":"Magnesia_SNOWH_202611101800","valid":"Magnesia_SNOWH_202611101800","caption":"WRF MAGNESIA — Magnesia_SNOWH_202611101800"},{"hour":14,"url":"maps/snow/Magnesia_SNOWH_202611101900.png","label":"Magnesia_SNOWH_202611101900","valid":"Magnesia_SNOWH_202611101900","caption":"WRF MAGNESIA — Magnesia_SNOWH_202611101900"},{"hour":15,"url":"maps/snow/Magnesia_SNOWH_202611102000.png","label":"Magnesia_SNOWH_202611102000","valid":"Magnesia_SNOWH_202611102000","caption":"WRF MAGNESIA — Magnesia_SNOWH_202611102000"},{"hour":16,"url":"maps/snow/Magnesia_SNOWH_202611102100.png","label":"Magnesia_SNOWH_202611102100","valid":"Magnesia_SNOWH_202611102100","caption":"WRF MAGNESIA — Magnesia_SNOWH_202611102100"},{"hour":17,"url":"maps/snow/Magnesia_SNOWH_202611102200.png","label":"Magnesia_SNOWH_202611102200","valid":"Magnesia_SNOWH_202611102200","caption":"WRF MAGNESIA — Magnesia_SNOWH_202611102200"},{"hour":18,"url":"maps/snow/Magnesia_SNOWH_202611102300.png","label":"Magnesia_SNOWH_202611102300","valid":"Magnesia_SNOWH_202611102300","caption":"WRF MAGNESIA — Magnesia_SNOWH_202611102300"},{"hour":19,"url":"maps/snow/Magnesia_SNOWH_202611110000.png","label":"Magnesia_SNOWH_202611110000","valid":"Magnesia_SNOWH_202611110000","caption":"WRF MAGNESIA — Magnesia_SNOWH_202611110000"},{"hour":20,"url":"maps/snow/Magnesia_SNOWH_202611110100.png","label":"Magnesia_SNOWH_202611110100","valid":"Magnesia_SNOWH_202611110100","caption":"WRF MAGNESIA — Magnesia_SNOWH_202611110100"},{"hour":21,"url":"maps/snow/Magnesia_SNOWH_202611110200.png","label":"Magnesia_SNOWH_202611110200","valid":"Magnesia_SNOWH_202611110200","caption":"WRF MAGNESIA — Magnesia_SNOWH_202611110200"},{"hour":22,"url":"maps/snow/Magnesia_SNOWH_202611110300.png","label":"Magnesia_SNOWH_202611110300","valid":"Magnesia_SNOWH_202611110300","caption":"WRF MAGNESIA — Magnesia_SNOWH_202611110300"},{"hour":23,"url":"maps/snow/Magnesia_SNOWH_202611110400.png","label":"Magnesia_SNOWH_202611110400","valid":"Magnesia_SNOWH_202611110400","caption":"WRF MAGNESIA — Magnesia_SNOWH_202611110400"},{"hour":24,"url":"maps/snow/Magnesia_SNOWH_202611110500.png","label":"Magnesia_SNOWH_202611110500","valid":"Magnesia_SNOWH_202611110500","caption":"WRF MAGNESIA — Magnesia_SNOWH_202611110500"},{"hour":25,"url":"maps/snow/Magnesia_SNOWH_202611110600.png","label":"Magnesia_SNOWH_202611110600","valid":"Magnesia_SNOWH_202611110600","caption":"WRF MAGNESIA — Magnesia_SNOWH_202611110600"},{"hour":26,"url":"maps/snow/Magnesia_SNOWH_202611110700.png","label":"Magnesia_SNOWH_202611110700","valid":"Magnesia_SNOWH_202611110700","caption":"WRF MAGNESIA — Magnesia_SNOWH_202611110700"}],"meteograms":[{"hour":0,"url":"maps/meteograms/Meteogram_Αλμυρός.png","label":"Αλμυρός","valid":"Αλμυρός","caption":"WRF MAGNESIA — Αλμυρός"},{"hour":1,"url":"maps/meteograms/Meteogram_Ανάβρα.png","label":"Ανάβρα","valid":"Ανάβρα","caption":"WRF MAGNESIA — Ανάβρα"},{"hour":2,"url":"maps/meteograms/Meteogram_Αργαλαστή.png","label":"Αργαλαστή","valid":"Αργαλαστή","caption":"WRF MAGNESIA — Αργαλαστή"},{"hour":3,"url":"maps/meteograms/Meteogram_Βόλος.png","label":"Βόλος","valid":"Βόλος","caption":"WRF MAGNESIA — Βόλος"},{"hour":4,"url":"maps/meteograms/Meteogram_Ζαγορά.png","label":"Ζαγορά","valid":"Ζαγορά","caption":"WRF MAGNESIA — Ζαγορά"},{"hour":5,"url":"maps/meteograms/Meteogram_Κωφοί_Μαγνησίας.png","label":"Κωφοί Μαγνησίας","valid":"Κωφοί Μαγνησίας","caption":"WRF MAGNESIA — Κωφοί Μαγνησίας"},{"hour":6,"url":"maps/meteograms/Meteogram_Σούρπη.png","label":"Σούρπη","valid":"Σούρπη","caption":"WRF MAGNESIA — Σούρπη"},{"hour":7,"url":"maps/meteograms/Meteogram_Όθρυς.png","label":"Όθρυς","valid":"Όθρυς","caption":"WRF MAGNESIA — Όθρυς"}],"storms":[{"hour":0,"url":"maps/storms/Thunderstorm_Potential_20261110_0600.png","label":"Thunderstorm Potential 20261110 0600","valid":"Thunderstorm Potential 20261110 0600","caption":"WRF MAGNESIA — Thunderstorm Potential 20261110 0600"},{"hour":1,"url":"maps/storms/Thunderstorm_Potential_20261110_0700.png","label":"Thunderstorm Potential 20261110 0700","valid":"Thunderstorm Potential 20261110 0700","caption":"WRF MAGNESIA — Thunderstorm Potential 20261110 0700"},{"hour":2,"url":"maps/storms/Thunderstorm_Potential_20261110_0800.png","label":"Thunderstorm Potential 20261110 0800","valid":"Thunderstorm Potential 20261110 0800","caption":"WRF MAGNESIA — Thunderstorm Potential 20261110 0800"},{"hour":3,"url":"maps/storms/Thunderstorm_Potential_20261110_0900.png","label":"Thunderstorm Potential 20261110 0900","valid":"Thunderstorm Potential 20261110 0900","caption":"WRF MAGNESIA — Thunderstorm Potential 20261110 0900"},{"hour":4,"url":"maps/storms/Thunderstorm_Potential_20261110_1000.png","label":"Thunderstorm Potential 20261110 1000","valid":"Thunderstorm Potential 20261110 1000","caption":"WRF MAGNESIA — Thunderstorm Potential 20261110 1000"},{"hour":5,"url":"maps/storms/Thunderstorm_Potential_20261110_1100.png","label":"Thunderstorm Potential 20261110 1100","valid":"Thunderstorm Potential 20261110 1100","caption":"WRF MAGNESIA — Thunderstorm Potential 20261110 1100"},{"hour":6,"url":"maps/storms/Thunderstorm_Potential_20261110_1200.png","label":"Thunderstorm Potential 20261110 1200","valid":"Thunderstorm Potential 20261110 1200","caption":"WRF MAGNESIA — Thunderstorm Potential 20261110 1200"},{"hour":7,"url":"maps/storms/Thunderstorm_Potential_20261110_1300.png","label":"Thunderstorm Potential 20261110 1300","valid":"Thunderstorm Potential 20261110 1300","caption":"WRF MAGNESIA — Thunderstorm Potential 20261110 1300"},{"hour":8,"url":"maps/storms/Thunderstorm_Potential_20261110_1400.png","label":"Thunderstorm Potential 20261110 1400","valid":"Thunderstorm Potential 20261110 1400","caption":"WRF MAGNESIA — Thunderstorm Potential 20261110 1400"},{"hour":9,"url":"maps/storms/Thunderstorm_Potential_20261110_1500.png","label":"Thunderstorm Potential 20261110 1500","valid":"Thunderstorm Potential 20261110 1500","caption":"WRF MAGNESIA — Thunderstorm Potential 20261110 1500"},{"hour":10,"url":"maps/storms/Thunderstorm_Potential_20261110_1600.png","label":"Thunderstorm Potential 20261110 1600","valid":"Thunderstorm Potential 20261110 1600","caption":"WRF MAGNESIA — Thunderstorm Potential 20261110 1600"},{"hour":11,"url":"maps/storms/Thunderstorm_Potential_20261110_1700.png","label":"Thunderstorm Potential 20261110 1700","valid":"Thunderstorm Potential 20261110 1700","caption":"WRF MAGNESIA — Thunderstorm Potential 20261110 1700"},{"hour":12,"url":"maps/storms/Thunderstorm_Potential_20261110_1800.png","label":"Thunderstorm Potential 20261110 1800","valid":"Thunderstorm Potential 20261110 1800","caption":"WRF MAGNESIA — Thunderstorm Potential 20261110 1800"},{"hour":13,"url":"maps/storms/Thunderstorm_Potential_20261110_1900.png","label":"Thunderstorm Potential 20261110 1900","valid":"Thunderstorm Potential 20261110 1900","caption":"WRF MAGNESIA — Thunderstorm Potential 20261110 1900"},{"hour":14,"url":"maps/storms/Thunderstorm_Potential_20261110_2000.png","label":"Thunderstorm Potential 20261110 2000","valid":"Thunderstorm Potential 20261110 2000","caption":"WRF MAGNESIA — Thunderstorm Potential 20261110 2000"},{"hour":15,"url":"maps/storms/Thunderstorm_Potential_20261110_2100.png","label":"Thunderstorm Potential 20261110 2100","valid":"Thunderstorm Potential 20261110 2100","caption":"WRF MAGNESIA — Thunderstorm Potential 20261110 2100"},{"hour":16,"url":"maps/storms/Thunderstorm_Potential_20261110_2200.png","label":"Thunderstorm Potential 20261110 2200","valid":"Thunderstorm Potential 20261110 2200","caption":"WRF MAGNESIA — Thunderstorm Potential 20261110 2200"},{"hour":17,"url":"maps/storms/Thunderstorm_Potential_20261110_2300.png","label":"Thunderstorm Potential 20261110 2300","valid":"Thunderstorm Potential 20261110 2300","caption":"WRF MAGNESIA — Thunderstorm Potential 20261110 2300"},{"hour":18,"url":"maps/storms/Thunderstorm_Potential_20261111_0000.png","label":"Thunderstorm Potential 20261111 0000","valid":"Thunderstorm Potential 20261111 0000","caption":"WRF MAGNESIA — Thunderstorm Potential 20261111 0000"},{"hour":19,"url":"maps/storms/Thunderstorm_Potential_20261111_0100.png","label":"Thunderstorm Potential 20261111 0100","valid":"Thunderstorm Potential 20261111 0100","caption":"WRF MAGNESIA — Thunderstorm Potential 20261111 0100"},{"hour":20,"url":"maps/storms/Thunderstorm_Potential_20261111_0200.png","label":"Thunderstorm Potential 20261111 0200","valid":"Thunderstorm Potential 20261111 0200","caption":"WRF MAGNESIA — Thunderstorm Potential 20261111 0200"},{"hour":21,"url":"maps/storms/Thunderstorm_Potential_20261111_0300.png","label":"Thunderstorm Potential 20261111 0300","valid":"Thunderstorm Potential 20261111 0300","caption":"WRF MAGNESIA — Thunderstorm Potential 20261111 0300"},{"hour":22,"url":"maps/storms/Thunderstorm_Potential_20261111_0400.png","label":"Thunderstorm Potential 20261111 0400","valid":"Thunderstorm Potential 20261111 0400","caption":"WRF MAGNESIA — Thunderstorm Potential 20261111 0400"},{"hour":23,"url":"maps/storms/Thunderstorm_Potential_20261111_0500.png","label":"Thunderstorm Potential 20261111 0500","valid":"Thunderstorm Potential 20261111 0500","caption":"WRF MAGNESIA — Thunderstorm Potential 20261111 0500"},{"hour":24,"url":"maps/storms/Thunderstorm_Potential_20261111_0600.png","label":"Thunderstorm Potential 20261111 0600","valid":"Thunderstorm Potential 20261111 0600","caption":"WRF MAGNESIA — Thunderstorm Potential 20261111 0600"},{"hour":25,"url":"maps/storms/Thunderstorm_Potential_20261111_0700.png","label":"Thunderstorm Potential 20261111 0700","valid":"Thunderstorm Potential 20261111 0700","caption":"WRF MAGNESIA — Thunderstorm Potential 20261111 0700"}],"profiles":[{"hour":0,"url":"maps/profiles/kofos_vertical_advanced_v4_4_gfs_direct.png","label":"Κωφοί — κατακόρυφο προφίλ","valid":"Κωφοί — κατακόρυφο προφίλ","caption":"WRF MAGNESIA — Κωφοί — κατακόρυφο προφίλ"}],"local-forecast":[{"hour":0,"url":"maps/local-forecast/forecast_almyros.png","label":"almyros","valid":"almyros","caption":"WRF MAGNESIA — almyros"},{"hour":1,"url":"maps/local-forecast/forecast_anchialos.png","label":"anchialos","valid":"anchialos","caption":"WRF MAGNESIA — anchialos"},{"hour":2,"url":"maps/local-forecast/forecast_argalasti.png","label":"argalasti","valid":"argalasti","caption":"WRF MAGNESIA — argalasti"},{"hour":3,"url":"maps/local-forecast/forecast_kofoi.png","label":"kofoi","valid":"kofoi","caption":"WRF MAGNESIA — kofoi"},{"hour":4,"url":"maps/local-forecast/forecast_othrys.png","label":"othrys","valid":"othrys","caption":"WRF MAGNESIA — othrys"},{"hour":5,"url":"maps/local-forecast/forecast_sourpi.png","label":"sourpi","valid":"sourpi","caption":"WRF MAGNESIA — sourpi"},{"hour":6,"url":"maps/local-forecast/forecast_velestino.png","label":"velestino","valid":"velestino","caption":"WRF MAGNESIA — velestino"},{"hour":7,"url":"maps/local-forecast/forecast_volos.png","label":"volos","valid":"volos","caption":"WRF MAGNESIA — volos"},{"hour":8,"url":"maps/local-forecast/forecast_zagora.png","label":"zagora","valid":"zagora","caption":"WRF MAGNESIA — zagora"}],"national-rain":[]};
 let activeKind="rain",activeIndex=0;
 function update(){
 const list=maps[activeKind]||[],hasMaps=list.length>0;
